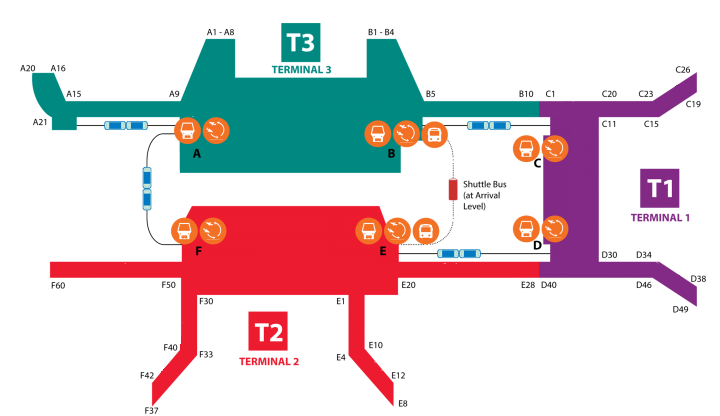
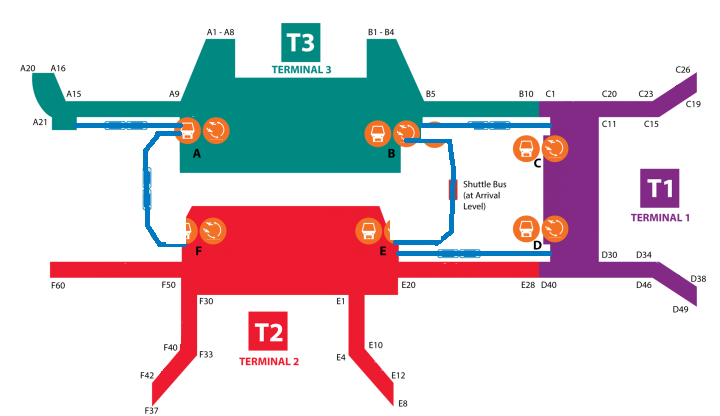
More fun with A* with weights.
Adding more cost for walking than taking the monorail with ease!

diff --git a/dashboard/public/javascripts/core.js b/dashboard/public/javascripts/core.js
@@ -19,7 +19,7 @@ var App = (function() {
 
         if (visitedPath) {
             renderPath(visitedPath, {
-                color: '#000000',
+                color: '#00FF00',
                 lineWidth: 5,
                 lineDash: [5]
             });
@@ -27,7 +27,7 @@ var App = (function() {
 
         if (navigationPath) {
             renderPath(navigationPath, {
-                color: '#000000',
+                color: '#00FF00',
                 lineWidth: 6
             });
         }
@@ -120,14 +120,14 @@ var App = (function() {
         render();
     }
 
-    function loadImage() {
+    function loadImage(src) {
         var image = new Image(canvas.clientWidth, canvas.clientHeight);
         image.async = true;
         image.onload = function() {
             mapImage = this;
             mapLoaded();
         };
-        image.src = '/images/map.png';
+        image.src = src;
     }
 
     function getPosition(evt) {
@@ -159,12 +159,14 @@ var App = (function() {
         fromPosition = fromGatePosition;
         toPosition = gates[toGate];
 
+        var startTime = +new Date;
         easystar.findPath(
             Math.floor(fromPosition.x),
             Math.floor(fromPosition.y),
             Math.floor(toPosition.x),
             Math.floor(toPosition.y),
             function (path) {
+                console.log(elapsed(startTime) + 's - Path');
                 if (path === null) {
                     alert("Path was not found.");
                 } else {
@@ -179,14 +181,21 @@ var App = (function() {
     function onNavigate() {
         var fromGate = from.value;
         var toGate = to.value;
-        triggerRobotNavigation(fromGate, toGate);
+
+        if (!gates[fromGate]) {
+            alert('from not found');
+            return;
+        }
+        if (!gates[toGate]) {
+            alert('to not found');
+            return;
+        }
+        triggerRobotNavigation(gates[fromGate], toGate);
     }
 
     function animatePath(path) {
         var pixelsRemaining = path.length;
-        if (!visitedPath) {
-            //visitedPath = [];
-        }
+
         animateInterval = setInterval(function() {
             if (pixelsRemaining <= 0) {
                 clearInterval(animateInterval);
@@ -214,21 +223,39 @@ var App = (function() {
         easystar = new EasyStar.js();
 
         // Normalize each pixel for each map, 0 = good, 1 = bad.
+        var startTime = +new Date;
         var width = canvas.clientWidth;
         var height = canvas.clientHeight;
         var imageData = context.getImageData(0, 0, width, height);
         var pixel = imageData.data;
-        var r = 0, g = 1, b = 2;
         var grid = [];
         var row = [];
 
         for (var p = 0; p < pixel.length; p+=4) {
-            // If white then change to 1;
-            if (pixel[p+r] > 253 && pixel[p+g] > 253 && pixel[p+b] > 253) {
+            var r = pixel[p];
+            var g = pixel[p+1];
+            var b = pixel[p+2];
+            // NOT ACCESSIBLE
+            if (r > 253 && g > 253 && b > 253) {
                 row.push(1);
+                imageData.data[p] = 0;
+                imageData.data[p+1] = 0;
+                imageData.data[p+2] = 0;
             }
+            // TRAM
+            else if (r < 2 && (g > 119 && g < 124) && (b > 193 && b < 200)) {
+                row.push(2);
+
+                imageData.data[p] = 255;
+                imageData.data[p+1] = 0;
+                imageData.data[p+2] = 0;
+            }
+            // 
             else {
                 row.push(0);
+                imageData.data[p] = 0;
+                imageData.data[p+1] = 0;
+                imageData.data[p+2] = 255;
             }
 
             // Row
@@ -238,9 +265,25 @@ var App = (function() {
             }
         }
 
+        context.putImageData(imageData, 0, 0);
+        var newImage= new Image();
+        newImage.onload = function () {
+            mapImage = this;
+        }
+        newImage.src =  canvas.toDataURL();
+    
+
         easystar.setGrid(grid);
-        easystar.setAcceptableTiles([0]);
+        easystar.setAcceptableTiles([0, 2]);
+        easystar.setTileCost(0, 2);
+        easystar.setTileCost(1, 1);
         easystar.enableDiagonals();
+
+        console.log(elapsed(startTime) + 's - Setup');
+    }
+
+    function elapsed(t) {
+        return (((+new Date) - t) / 1000).toFixed(3);
     }
 
     function startFakeSocketServer() {
@@ -356,12 +399,13 @@ var App = (function() {
     function main() {
         canvas = monitor;
         context = canvas.getContext('2d');
-        loadImage();
+        loadImage('/images/map.png');
         navigate.addEventListener('click', onNavigate, false);
-        startFakeSocketServer();
+        //startFakeSocketServer();
 
         // Initial Robot Position.
         robotMoving = gates['f42'];
+        //labelGatesTraining();
     }
 
     // Run this once nad copy output to a new file.
@@ -370,8 +414,10 @@ var App = (function() {
         canvas.addEventListener('click', function (evt) {
             var position = getPosition(evt);
             var locationName = prompt('location');
-            console.log(locationName + ':{x:' + position.x+',y:'+position.y+'},');
-            localStorage.db[locationName] = position;
+            if (locationName) {
+                console.log(locationName + ':{x:' + position.x+',y:'+position.y+'},');
+                localStorage.db[locationName] = position;
+            }
         });
     }
 

diff --git a/dashboard/public/stylesheets/core.css b/dashboard/public/stylesheets/core.css
@@ -9,10 +9,6 @@ a {
   color: #00B7FF;
 }
 
-#control-panel {
-  display: none;
-}
-
 #monitor-wrapper {
   background-color: #444;
   width: 720px;
